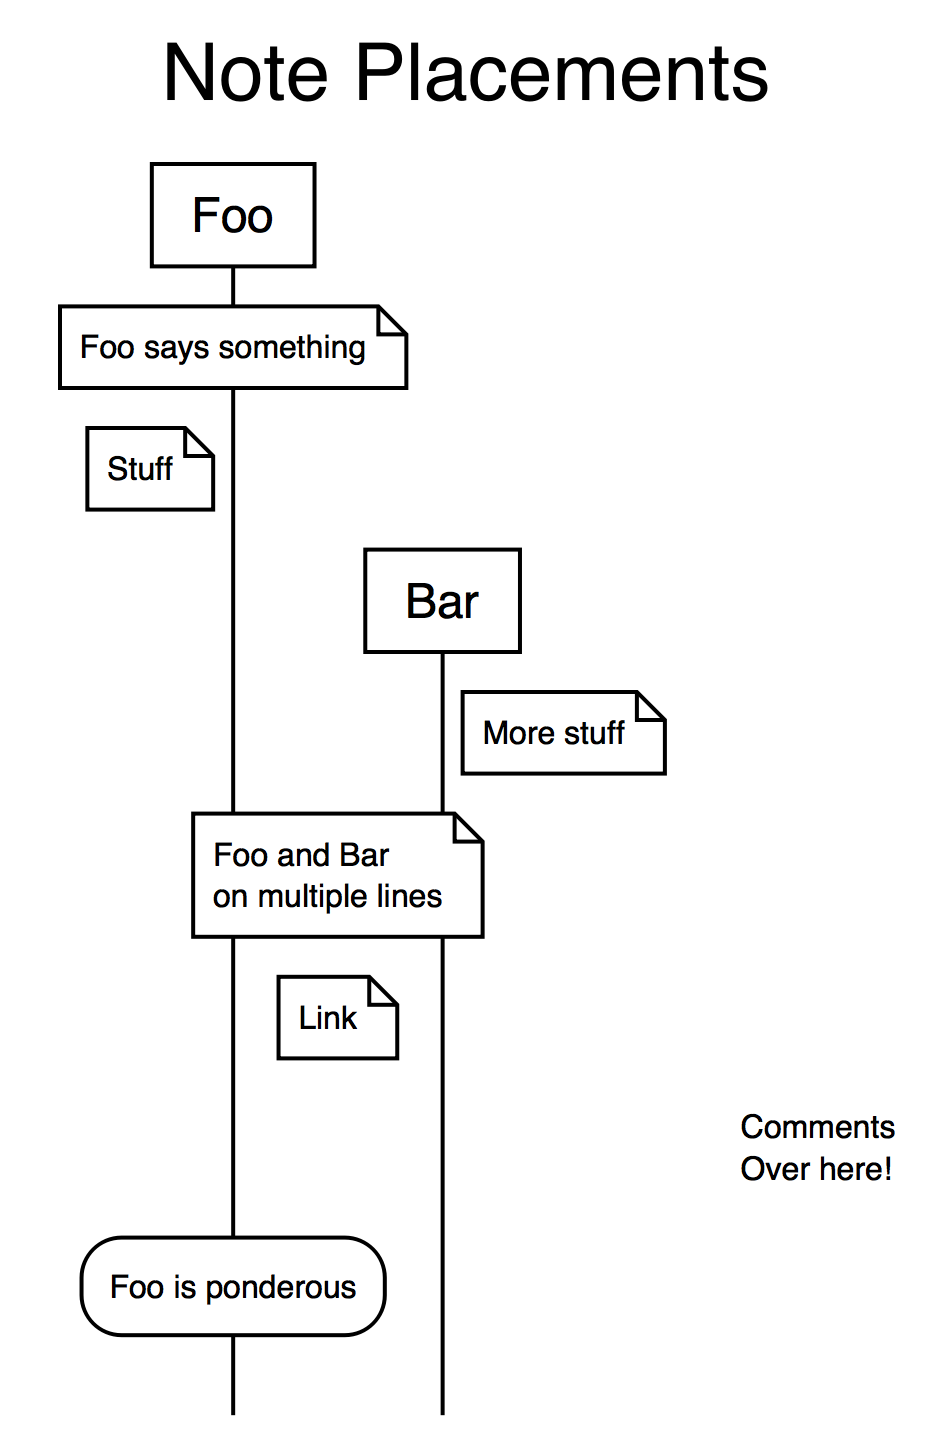
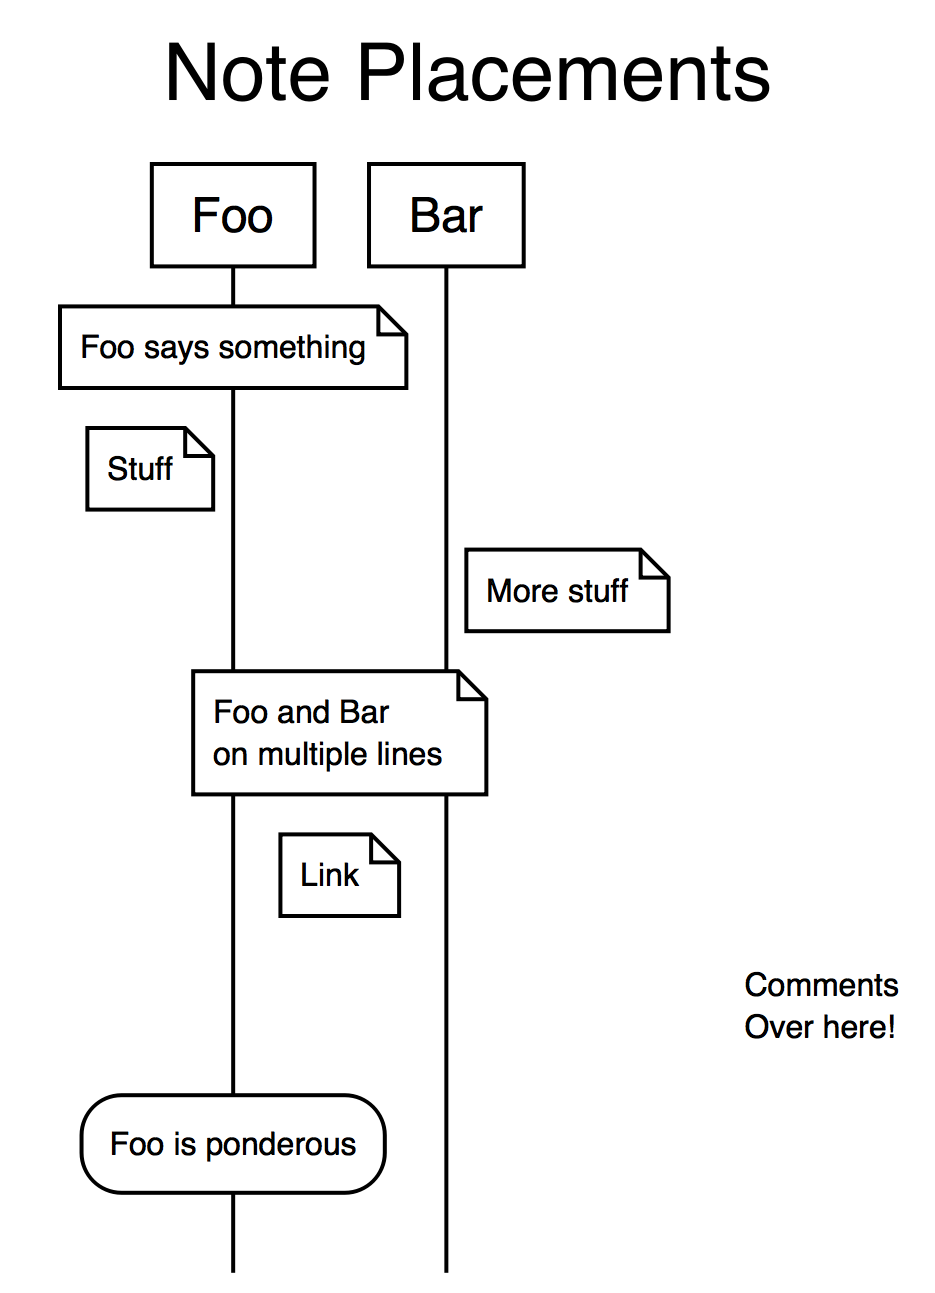
Reduce size of notes example image

diff --git a/library.htm b/library.htm
@@ -229,6 +229,8 @@ divider tear with height 20: Lots of stuff happens
 <pre class="example" data-lang="sequence">
 title Note Placements
 
+begin Foo, Bar
+
 note over Foo: Foo says something
 note left of Foo: Stuff
 note right of Bar: More stuff

diff --git a/README.md b/README.md
@@ -102,6 +102,8 @@ divider tear with height 20: Lots of stuff happens
 ```
 title Note Placements
 
+begin Foo, Bar
+
 note over Foo: Foo says something
 note left of Foo: Stuff
 note right of Bar: More stuff
